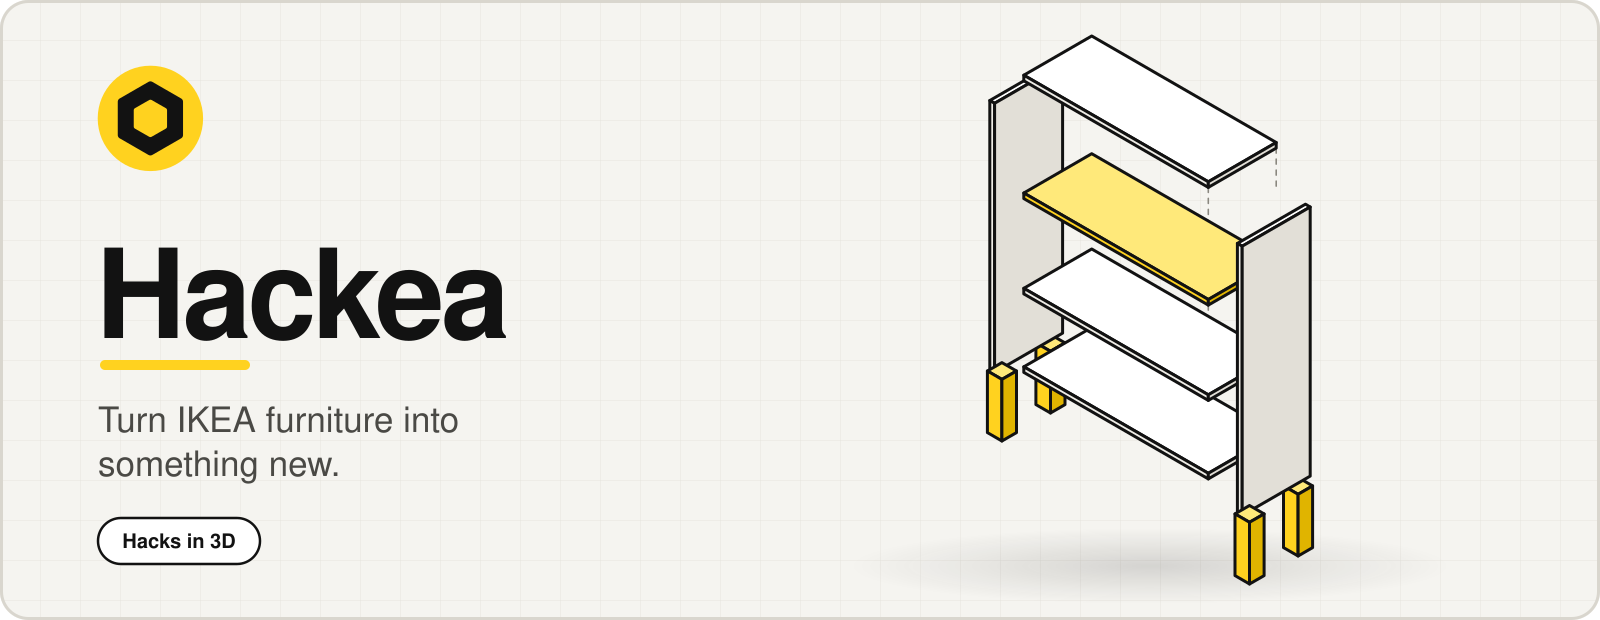
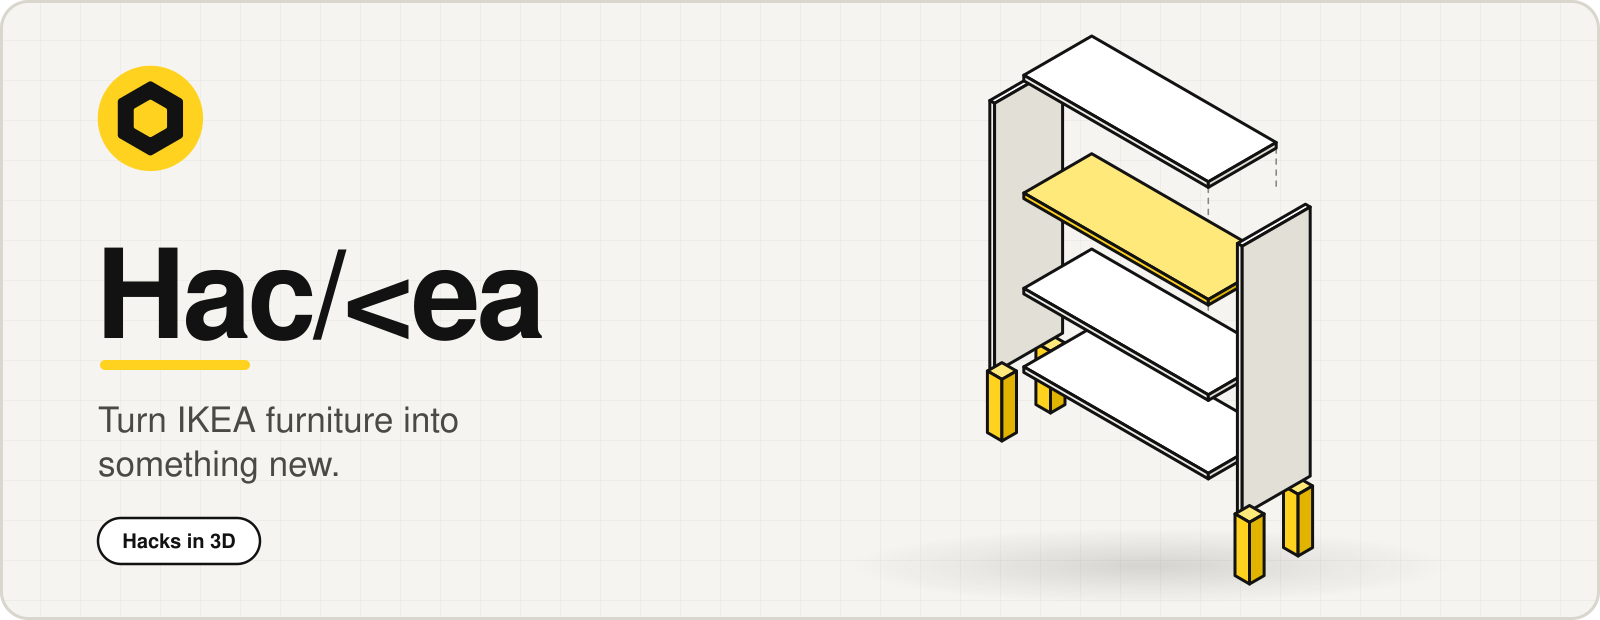
refactor(brand): rename Hackea to Hac/<ea
Revert "refactor(brand): rename Hackea to Hac/<ea"

This reverts commit 0ef77480ad20151715b5482a184a56296497ce07.

feat(brand): rename the logotype to Hac/<ea

Changed region(s): [[0.1875, 0.3984, 0.3438, 0.5516]]

diff --git a/src/components/Logo.tsx b/src/components/Logo.tsx
@@ -17,7 +17,7 @@ export function LogoMark({ size = 32, className }: { size?: number; className?: 
 }
 
 export function Wordmark({ className }: { className?: string }) {
-  return <span className={"wordmark " + (className ?? "")}>hackea</span>;
+  return <span className={"wordmark " + (className ?? "")}>{"Hac/<ea"}</span>;
 }
 
 export default function Logo({ href = "/", compact, size = 26 }: { href?: string; compact?: boolean; size?: number }) {

diff --git a/src/lib/og/card.tsx b/src/lib/og/card.tsx
@@ -52,7 +52,7 @@ function Logo() {
   return (
     <div style={{ display: "flex", alignItems: "center", gap: 13 }}>
       <Mark size={46} />
-      <span style={{ fontFamily: "Display", fontSize: 40, fontWeight: 800, letterSpacing: "-0.045em", paddingBottom: 4 }}>hackea</span>
+      <span style={{ fontFamily: "Display", fontSize: 40, fontWeight: 800, letterSpacing: "-0.045em", paddingBottom: 4 }}>{"Hac/<ea"}</span>
     </div>
   );
 }

diff --git a/src/components/guide/shareCard.ts b/src/components/guide/shareCard.ts
@@ -130,7 +130,7 @@ export async function buildCard(plan: Plan, key: string, stat: string): Promise<
     mark(ctx, 134, 1270, 22);
     ctx.fillStyle = "#121212";
     ctx.font = `800 30px ${display}`;
-    ctx.fillText("hackea", 168, 1281);
+    ctx.fillText("Hac/<ea", 168, 1281);
     ctx.fillStyle = "#8a877f";
     ctx.font = `500 26px ${body}`;
     const host = location.host.replace(/^www\./, "");
